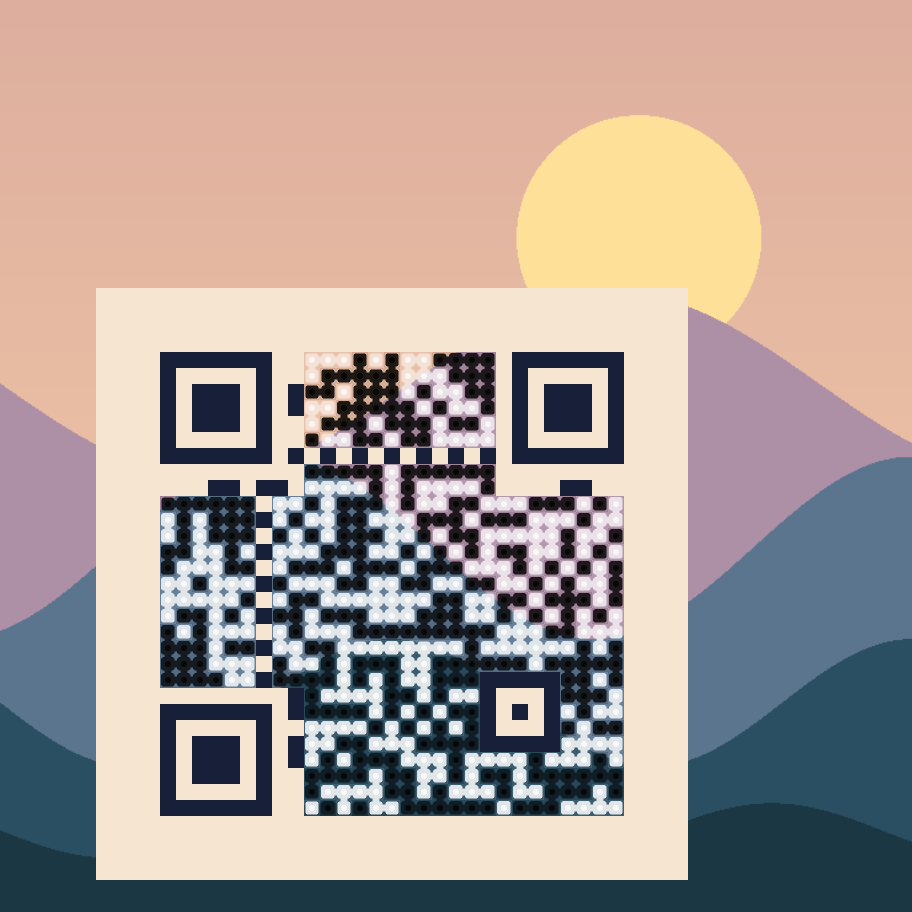
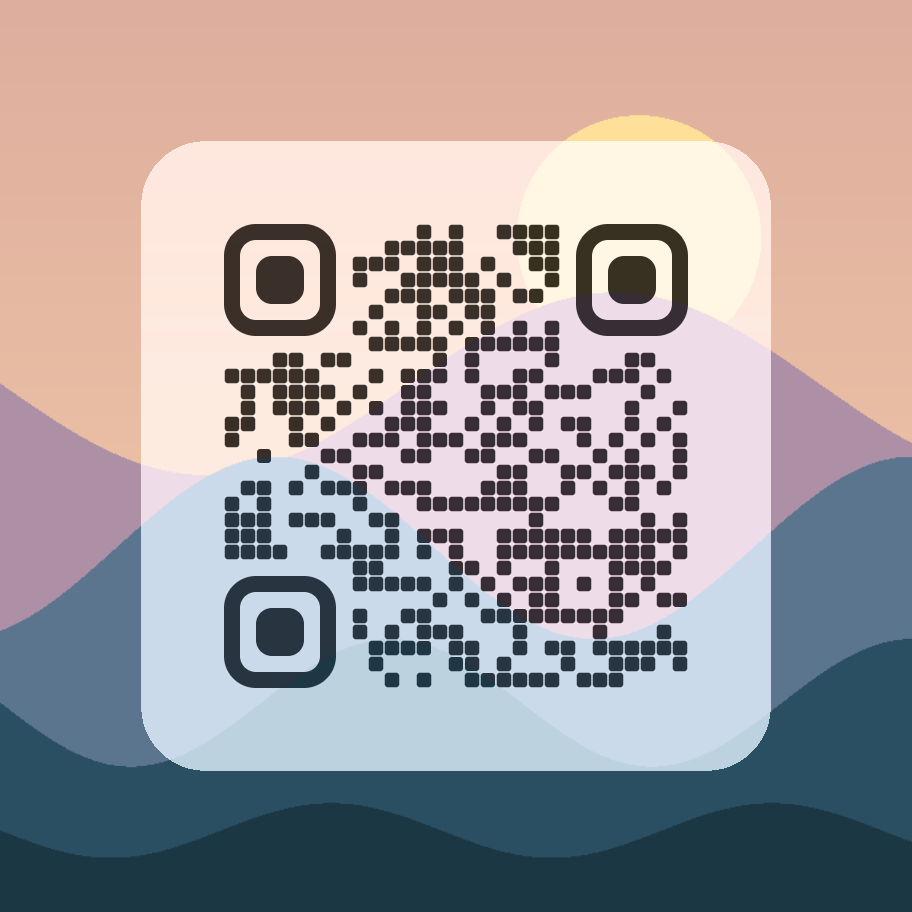
docs(site): ✨ recompose the Earth, landscape and geometric art and enlarge the procedural tiles
Earth, landscape and geometric now use the tinted composition. The code takes
the art's own tones, so it no longer sits on a flat plate that clashes with
the picture. Earth is centred on the globe with circular finders and solid
deep-ocean dots instead of speckled photo fill. Landscape gets a crisp
frosted panel. The geometric illustration now places one large disc behind
the code, so the colour quadrants frame it instead of splitting it in four.

The light strip in the old Earth image was the format and separator rows,
drawn as solid plate between photo-filled data. It wasn't a rendering
defect. Tinting draws those modules like data modules, so the strip is gone.

The procedural gallery tiles use a tighter margin and a crisp panel, so each
code is larger and stands clear of its pattern. Botanical, citrus and waves
are unchanged.

A new scan test renders the published expressive art, the gallery tiles and
the scene swatches through their generators. It also checks the shipped
files with strict ZXing and the native decoder.

diff --git a/CodeGlyphX.Examples/QrExpressiveArtExample.cs b/CodeGlyphX.Examples/QrExpressiveArtExample.cs
@@ -5,55 +5,78 @@ using CodeGlyphX.Rendering.Png;
 namespace CodeGlyphX.Examples;
 
 internal static class QrExpressiveArtExample {
+    internal const string Payload = "https://example.com/art"; // NOSONAR - reserved example URI.
+    internal static readonly string[] Scenes = { "botanical", "citrus", "landscape", "waves", "geometric", "earth" };
+
     private static Rgba32 Paper(string scene) => scene switch {
         "botanical" => new Rgba32(234, 229, 204),
         "citrus" => new Rgba32(248, 217, 176),
-        "geometric" => new Rgba32(240, 223, 194),
-        "landscape" => new Rgba32(246, 229, 209),
-        "waves" => new Rgba32(247, 230, 190),
-        _ => new Rgba32(235, 245, 251),
+        _ => new Rgba32(247, 230, 190),
     };
 
+    private static (QrModuleShape Shape, Rgba32 Ink) Classic(string scene) => scene switch {
+        "botanical" => (QrModuleShape.Leaf, new Rgba32(17, 46, 34)),
+        "citrus" => (QrModuleShape.Rounded, new Rgba32(65, 25, 18)),
+        _ => (QrModuleShape.ConnectedSquircle, new Rgba32(8, 41, 51)),
+    };
+
+    /// <summary>Loads the source art: the NASA photograph for Earth, a locally drawn illustration otherwise.</summary>
+    internal static byte[] Source(string scene, string earthPhotoPath, out int width, out int height) {
+        if (scene == "earth") return ImageReader.DecodeRgba32(File.ReadAllBytes(earthPhotoPath), out width, out height);
+        width = height = 768;
+        return QrArtIllustrations.Draw(scene, width);
+    }
+
+    /// <summary>Composes one scene with the options the published artwork uses.</summary>
+    internal static QrImageComposition Compose(string scene, byte[] pixels, int width, int height) {
+        var qr = QR.Encode(Payload, new QrEncodingOptions { ErrorCorrectionLevel = QrErrorCorrectionLevel.H });
+        return QrImageComposer.Render(qr, pixels, width, height, Options(scene));
+    }
+
+    private static QrImageCompositionOptions Options(string scene) {
+        if (scene is "earth" or "landscape" or "geometric") {
+            // Busy or multi-coloured art reads better when the whole symbol takes the art's own tones: light modules
+            // and the quiet zone become a high key of the picture, and dark modules (finders included) its deep tones.
+            // The code is centred on the subject, so the tinted panel sits inside it instead of cutting across an edge.
+            return new QrImageCompositionOptions {
+                ModuleSize = 16,
+                Strength = 0.95,
+                ImageZoom = scene == "earth" ? 1.15 : 1,
+                Art = new QrImageArtOptions {
+                    Shape = scene == "earth" ? QrModuleShape.Circle : QrModuleShape.Rounded,
+                    Scale = 0.92,
+                    DetailProtection = 0.3,
+                    Finders = scene == "earth" ? QrImageFinderStyle.Circular : QrImageFinderStyle.Rounded,
+                    FunctionalTint = 1,
+                    // The photograph's deep tones are close to its mid tones; half a deep-ocean ink keeps strict readers sure.
+                    DarkModuleArt = scene == "earth" ? 0.5 : 1,
+                    FunctionalForeground = scene == "earth" ? new Rgba32(10, 28, 52) : Rgba32.Black
+                },
+                // A soft edge melts the panel into the photograph; flat illustrations keep a crisp, frosted-glass panel.
+                Canvas = new QrImageCanvasOptions { PaddingModules = 10, FadeModules = scene == "earth" ? 6 : 0 },
+            };
+        }
+        var (shape, ink) = Classic(scene);
+        return new QrImageCompositionOptions {
+            ModuleSize = 16,
+            Strength = 0.92,
+            Art = new QrImageArtOptions { Shape = shape, Scale = 0.85, DetailProtection = 0.8, FunctionalForeground = ink, FunctionalBackground = Paper(scene) },
+            Canvas = new QrImageCanvasOptions { PaddingModules = 10, PositionX = scene == "citrus" ? 0.8 : 0.3, PositionY = 0.55 },
+        };
+    }
+
     public static void Run(string outputDir) {
-        const string payload = "https://example.com/art"; // NOSONAR - reserved example URI.
         var dir = Path.Combine(outputDir, "qr-expressive-art");
         Directory.CreateDirectory(dir);
-        var qr = QR.Encode(payload, new QrEncodingOptions { ErrorCorrectionLevel = QrErrorCorrectionLevel.H });
-        var scenes = new[] {
-            ("botanical", QrModuleShape.Leaf, new Rgba32(17, 46, 34)),
-            ("citrus", QrModuleShape.Rounded, new Rgba32(65, 25, 18)),
-            ("landscape", QrModuleShape.ConnectedRounded, new Rgba32(24, 31, 57)),
-            ("waves", QrModuleShape.ConnectedSquircle, new Rgba32(8, 41, 51)),
-            ("geometric", QrModuleShape.Blob, new Rgba32(47, 26, 45)),
-            ("earth", QrModuleShape.Circle, new Rgba32(12, 31, 49)),
-        };
-        foreach (var (scene, shape, ink) in scenes) {
-            byte[] pixels;
-            int width;
-            int height;
-            if (scene == "earth") {
-                var photo = File.ReadAllBytes(Path.Combine(AppContext.BaseDirectory, "Assets", "Art", "apollo17-earth.jpg"));
-                pixels = ImageReader.DecodeRgba32(photo, out width, out height);
-            } else {
-                width = height = 768;
-                pixels = QrArtIllustrations.Draw(scene, width);
-            }
-            var options = new QrImageCompositionOptions {
-                ModuleSize = 16,
-                Strength = 0.92,
-                Art = new QrImageArtOptions { Shape = shape, Scale = 0.85, DetailProtection = 0.8, FunctionalForeground = ink, FunctionalBackground = Paper(scene) },
-                Canvas = new QrImageCanvasOptions {
-                    PaddingModules = 10,
-                    PositionX = scene == "earth" || scene == "citrus" ? 0.8 : 0.3,
-                    PositionY = scene == "landscape" ? 0.9 : 0.55
-                },
-            };
-            var artwork = QrImageComposer.Render(qr, pixels, width, height, options);
-            var png = artwork.ToPng();
+        var qr = QR.Encode(Payload, new QrEncodingOptions { ErrorCorrectionLevel = QrErrorCorrectionLevel.H });
+        var photo = Path.Combine(AppContext.BaseDirectory, "Assets", "Art", "apollo17-earth.jpg");
+        foreach (var scene in Scenes) {
+            var pixels = Source(scene, photo, out var width, out var height);
+            var png = Compose(scene, pixels, width, height).ToPng();
             File.WriteAllBytes(Path.Combine(dir, $"{scene}.png"), png);
             var baseline = QrImageComposer.Render(qr, pixels, width, height, new QrImageCompositionOptions { ModuleSize = 16, Strength = 1 });
             baseline.SavePng(Path.Combine(dir, $"{scene}-baseline.png"));
-            var report = QrArt.ValidateImage(png, payload, budgetMilliseconds: 3000);
+            var report = QrArt.ValidateImage(png, Payload, budgetMilliseconds: 3000);
             Console.WriteLine($"{scene}: " + string.Join(", ", report.Checks.Select(c => $"{c.Name}={c.Passed}")));
             if (!report.AllPassed) throw new InvalidOperationException($"Rendered artwork failed validation: {scene}");
         }

diff --git a/CodeGlyphX.Tests/QrShowcaseArtScanTests.cs b/CodeGlyphX.Tests/QrShowcaseArtScanTests.cs
@@ -1,0 +1,94 @@
+using System.Runtime.CompilerServices;
+using CodeGlyphX.Examples;
+using CodeGlyphX.Rendering;
+using CodeGlyphX.Rendering.Art;
+using CodeGlyphX.Rendering.Png;
+using Xunit;
+using Xunit.Abstractions;
+
+namespace CodeGlyphX.Tests;
+
+/// <summary>The expressive art, procedural gallery tiles and Playground scene swatches published on the website are
+/// rendered through their generators' own code paths, and the shipped files are checked as well. Each must decode its
+/// exact payload with strict ZXing and the native decoder.</summary>
+[Collection("ImageScannerSerial")]
+public sealed class QrShowcaseArtScanTests {
+    private const string ScenePayload = "https://example.com/scenes";
+    private const int SceneSwatchSize = 400;
+    private readonly ITestOutputHelper _output;
+
+    public QrShowcaseArtScanTests(ITestOutputHelper output) => _output = output;
+
+    public static IEnumerable<object[]> ExpressiveCases() => QrExpressiveArtExample.Scenes.Select(s => new object[] { s });
+    public static IEnumerable<object[]> ProceduralCases() => Enumerable.Range(0, QrProceduralArtExample.Designs.Length).Select(i => new object[] { i });
+    public static IEnumerable<object[]> SceneCases() => Enum.GetValues<QrSceneStyle>().Select(s => new object[] { s });
+
+    [Theory]
+    [MemberData(nameof(ExpressiveCases))]
+    [Trait("Category", "CorpusTiming")]
+    public void ExpressiveArt_GeneratorOutput_DecodesExactPayload(string scene) {
+        var pixels = QrExpressiveArtExample.Source(scene, RepoPath("Assets/Art/apollo17-earth.jpg"), out var width, out var height);
+        var png = QrExpressiveArtExample.Compose(scene, pixels, width, height).ToPng();
+        AssertScans(png, QrExpressiveArtExample.Payload, scene);
+    }
+
+    [Theory]
+    [MemberData(nameof(ExpressiveCases))]
+    [Trait("Category", "CorpusTiming")]
+    public void ExpressiveArt_ShippedFile_DecodesExactPayload(string scene) {
+        var png = File.ReadAllBytes(RepoPath($"Website/static/images/art/qr-expressive-{scene}.png"));
+        AssertScans(png, QrExpressiveArtExample.Payload, scene);
+    }
+
+    [Theory]
+    [MemberData(nameof(ProceduralCases))]
+    [Trait("Category", "CorpusTiming")]
+    public void ProceduralGalleryTile_DecodesExactPayload_AtTileSize(int index) {
+        var png = QrProceduralArtExample.Compose(index).ToPng();
+        var name = QrProceduralArtExample.Designs[index].Name;
+        AssertScans(png, QrProceduralArtExample.Payload, name, QrProceduralArtExample.GalleryTile);
+    }
+
+    [Theory]
+    [MemberData(nameof(SceneCases))]
+    [Trait("Category", "CorpusTiming")]
+    public void PlaygroundSceneSwatch_PresetRender_AndShippedFile_DecodeExactPayload(QrSceneStyle style) {
+        var rendered = QrArt.ComposeScene(ScenePayload, QrScenePresets.Create(style, SceneSwatchSize)).Image.ToPng();
+        var shipped = File.ReadAllBytes(RepoPath($"CodeGlyphX.Playground/wwwroot/art/scenes/scene-{style.ToString().ToLowerInvariant()}.png"));
+        foreach (var png in new[] { rendered, shipped }) {
+            Assert.True(ImageReader.TryDecodeRgba32(png, out _, out var width, out _));
+            Assert.Equal(SceneSwatchSize, width);
+            AssertResults(QrArtWave1ScanTests.ScanImageAt(png, ScenePayload, SceneSwatchSize).ToList(), 3, style.ToString());
+        }
+    }
+
+    // Standard sizes plus the image's own width (or the size it is shown at), each plain, rotated and blurred.
+    private void AssertScans(byte[] png, string payload, string name, int? deliverySize = null) {
+        Assert.True(ImageReader.TryDecodeRgba32(png, out _, out var width, out _));
+        var results = QrArtWave1ScanTests.ScanImage(png, payload).ToList();
+        results.AddRange(QrArtWave1ScanTests.ScanImageAt(png, payload, deliverySize ?? width));
+        AssertResults(results, 12, name);
+    }
+
+    private void AssertResults(IReadOnlyList<QrArtWave1ScanTests.ScanObservation> results, int expected, string name) {
+        foreach (var result in results) _output.WriteLine($"{name} {result}");
+        Assert.Equal(expected, results.Count);
+        var failures = results.Where(r => !r.StrictPassed || !r.LibraryPassed).ToArray();
+        Assert.True(failures.Length == 0, $"{name}: " + string.Join(Environment.NewLine, failures.Select(r => r.ToString())));
+    }
+
+    // Build output normally sits inside the repository; with a redirected artifacts path the source location is used.
+    private static string RepoPath(string relativePath, [CallerFilePath] string sourceFile = "") {
+        var dir = FindRoot(AppContext.BaseDirectory) ?? FindRoot(Path.GetDirectoryName(sourceFile));
+        if (dir is null) throw new DirectoryNotFoundException("Could not locate the repository root.");
+        var path = Path.Combine(dir.FullName, relativePath.Replace('/', Path.DirectorySeparatorChar));
+        Assert.True(File.Exists(path), "Missing repository file: " + relativePath);
+        return path;
+    }
+
+    private static DirectoryInfo? FindRoot(string? start) {
+        var dir = string.IsNullOrEmpty(start) ? null : new DirectoryInfo(start);
+        while (dir is not null && !File.Exists(Path.Combine(dir.FullName, "CodeGlyphX.sln"))) dir = dir.Parent;
+        return dir;
+    }
+}

diff --git a/CodeGlyphX.Examples/QrProceduralArtExample.cs b/CodeGlyphX.Examples/QrProceduralArtExample.cs
@@ -6,23 +6,33 @@ namespace CodeGlyphX.Examples;
 
 /// <summary>Six reproducible, locally drawn QR designs and a compact gallery.</summary>
 internal static class QrProceduralArtExample {
+    internal const string Payload = "https://codeglyphx.com";
+    internal const int GalleryTile = 420;
+    internal static readonly (string Name, QrArtPattern Pattern)[] Designs = {
+        ("veined-marble", QrArtPattern.Marble), ("layered-waves", QrArtPattern.Waves),
+        ("sunburst-rays", QrArtPattern.Sunburst), ("bauhaus-tiles", QrArtPattern.Geometric),
+        ("botanical-leaves", QrArtPattern.Botanical), ("circuit-traces", QrArtPattern.Circuit)
+    };
+
+    /// <summary>Composes one gallery design with the options the published gallery uses.</summary>
+    internal static QrImageComposition Compose(int index) {
+        var pattern = Designs[index].Pattern;
+        // A tighter margin and a crisp, frosted panel keep the code large and clearly separated in a gallery tile.
+        var composition = QrArtPatternPresets.CreateCompositionOptions(pattern);
+        composition.Canvas!.PaddingModules = 5;
+        composition.Canvas.FadeModules = 0;
+        return QrArt.ComposePattern(Payload, QrArtPatternPresets.CreatePatternOptions(pattern, seed: 2026 + index), composition);
+    }
+
     public static void Run(string outputDir) {
-        const string payload = "https://codeglyphx.com";
         var directory = Path.Combine(outputDir, "qr-procedural-art");
         Directory.CreateDirectory(directory);
-        var designs = new[] {
-            ("veined-marble", QrArtPattern.Marble), ("layered-waves", QrArtPattern.Waves),
-            ("sunburst-rays", QrArtPattern.Sunburst), ("bauhaus-tiles", QrArtPattern.Geometric),
-            ("botanical-leaves", QrArtPattern.Botanical), ("circuit-traces", QrArtPattern.Circuit)
-        };
         var images = new List<QrImageComposition>();
-        for (var i = 0; i < designs.Length; i++) {
-            var (name, pattern) = designs[i];
-            var result = QrArt.ComposePattern(payload,
-                QrArtPatternPresets.CreatePatternOptions(pattern, seed: 2026 + i),
-                QrArtPatternPresets.CreateCompositionOptions(pattern));
+        for (var i = 0; i < Designs.Length; i++) {
+            var name = Designs[i].Name;
+            var result = Compose(i);
             result.SavePng(Path.Combine(directory, name + ".png"));
-            var report = QrArt.ValidateImage(result.ToPng(), payload, 3000);
+            var report = QrArt.ValidateImage(result.ToPng(), Payload, 3000);
             Console.WriteLine(name + ": " + string.Join(", ", report.Checks.Select(c => $"{c.Name}={c.Passed}")));
             if (!report.AllPassed) throw new InvalidOperationException("QR artwork failed validation: " + name);
             images.Add(result);
@@ -31,7 +41,7 @@ internal static class QrProceduralArtExample {
     }
 
     private static void SaveGallery(IReadOnlyList<QrImageComposition> images, string path) {
-        const int tile = 420, gap = 24, columns = 3;
+        const int tile = GalleryTile, gap = 24, columns = 3;
         var width = columns * tile + (columns + 1) * gap;
         var height = 2 * tile + 3 * gap;
         var pixels = new byte[width * height * 4];

diff --git a/CodeGlyphX.Examples/QrArtIllustrations.cs b/CodeGlyphX.Examples/QrArtIllustrations.cs
@@ -130,12 +130,16 @@ internal static class QrArtIllustrations {
     }
 
     private static (byte R, byte G, byte B) Geometric(double x, double y) {
+        // Colour quadrants frame one large disc, so the centred code sits on a single field instead of a four-way split.
         (byte, byte, byte) color = (240, 223, 194);
-        if (x > 0.52 && y < 0.52) color = (197, 85, 63);
-        if (x < 0.52 && y > 0.52) color = (41, 85, 98);
-        if (Math.Pow(x - 0.27, 2) + Math.Pow(y - 0.27, 2) < 0.042) color = (214, 158, 75);
-        if (Math.Pow(x - 0.75, 2) + Math.Pow(y - 0.76, 2) < 0.047) color = (107, 71, 101);
+        if (x > 0.5 && y < 0.5) color = (197, 85, 63);
+        if (x < 0.5 && y > 0.5) color = (41, 85, 98);
         if (Math.Abs(x - y) < 0.012) color = (244, 233, 210);
+        if (Math.Pow(x - 0.86, 2) + Math.Pow(y - 0.86, 2) < 0.045) color = (107, 71, 101);
+        if (Math.Pow(x - 0.13, 2) + Math.Pow(y - 0.13, 2) < 0.02) color = (107, 71, 101);
+        var distance = Math.Sqrt(Math.Pow(x - 0.5, 2) + Math.Pow(y - 0.5, 2));
+        if (distance < 0.488) color = (244, 233, 210);
+        if (distance < 0.47) color = (214, 158, 75);
         return color;
     }
 }
